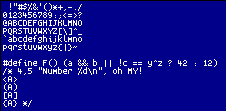
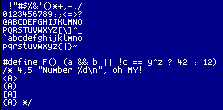
Shifted ) and ] left one pixel

Changed region(s): [[0.0, 0.0, 1.0, 0.4636], [0.0, 0.5182, 0.9686, 0.9818]]

diff --git a/README.md b/README.md
@@ -31,6 +31,10 @@ Changes to original Spleen:
  * `<` and `>` were much too big and round before.  Shrunk them and
    made the sharper.
 
+ * `}`, `)`, and `]` were shifted leftwise one pixel to better balance the
+   whitespace of enclosed text.  Unfortunately I couldn't do this for `>`
+   as it would make it assymetrical when used as the relational operator.
+
  * `?` was shunk to fit with uppercase letters.
 
  * `E`, `F`, and `L` had a curiously round appearence.  Sharped up and
@@ -48,4 +52,5 @@ Here's the before and after comparison:
 Fonts are notoriously subjective so I don't expect everyone to agree
 with all my changes.  One particularily thorny character I went back
 and forth on is the asterisk `*`.  It feels a bit overweight, but
-Creeps' version no longer feels like an asterisk.
+Creeps' version no longer feels like an asterisk.  Similar story for
+the percent `%`.
